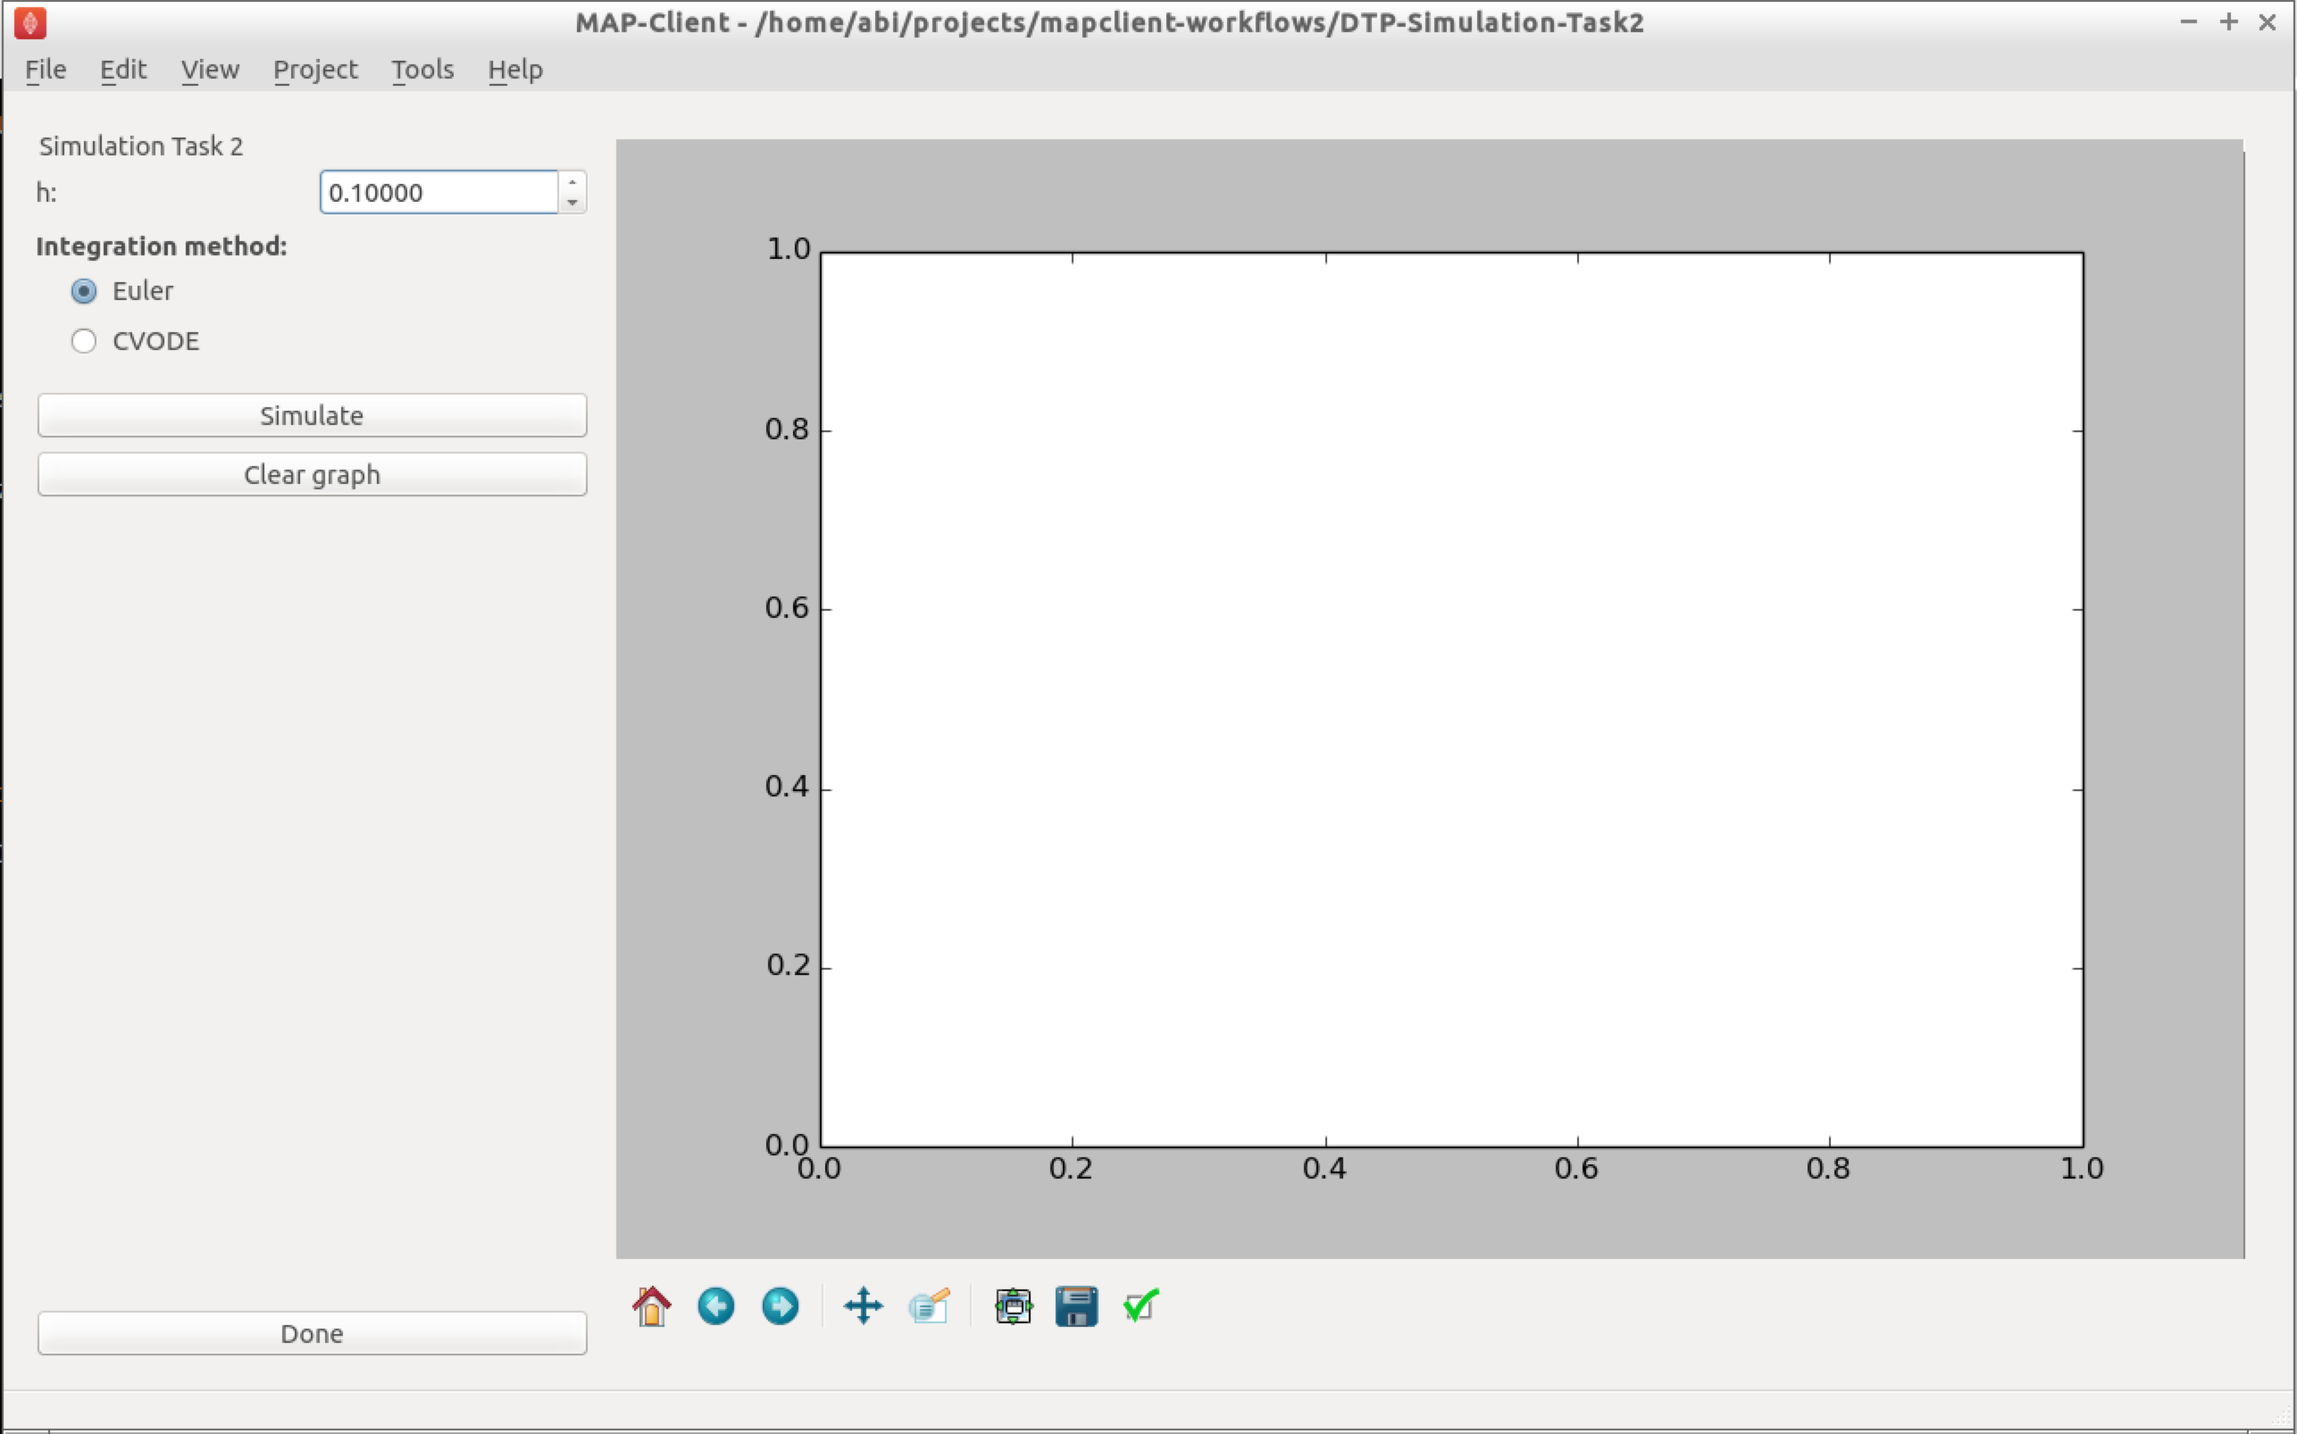
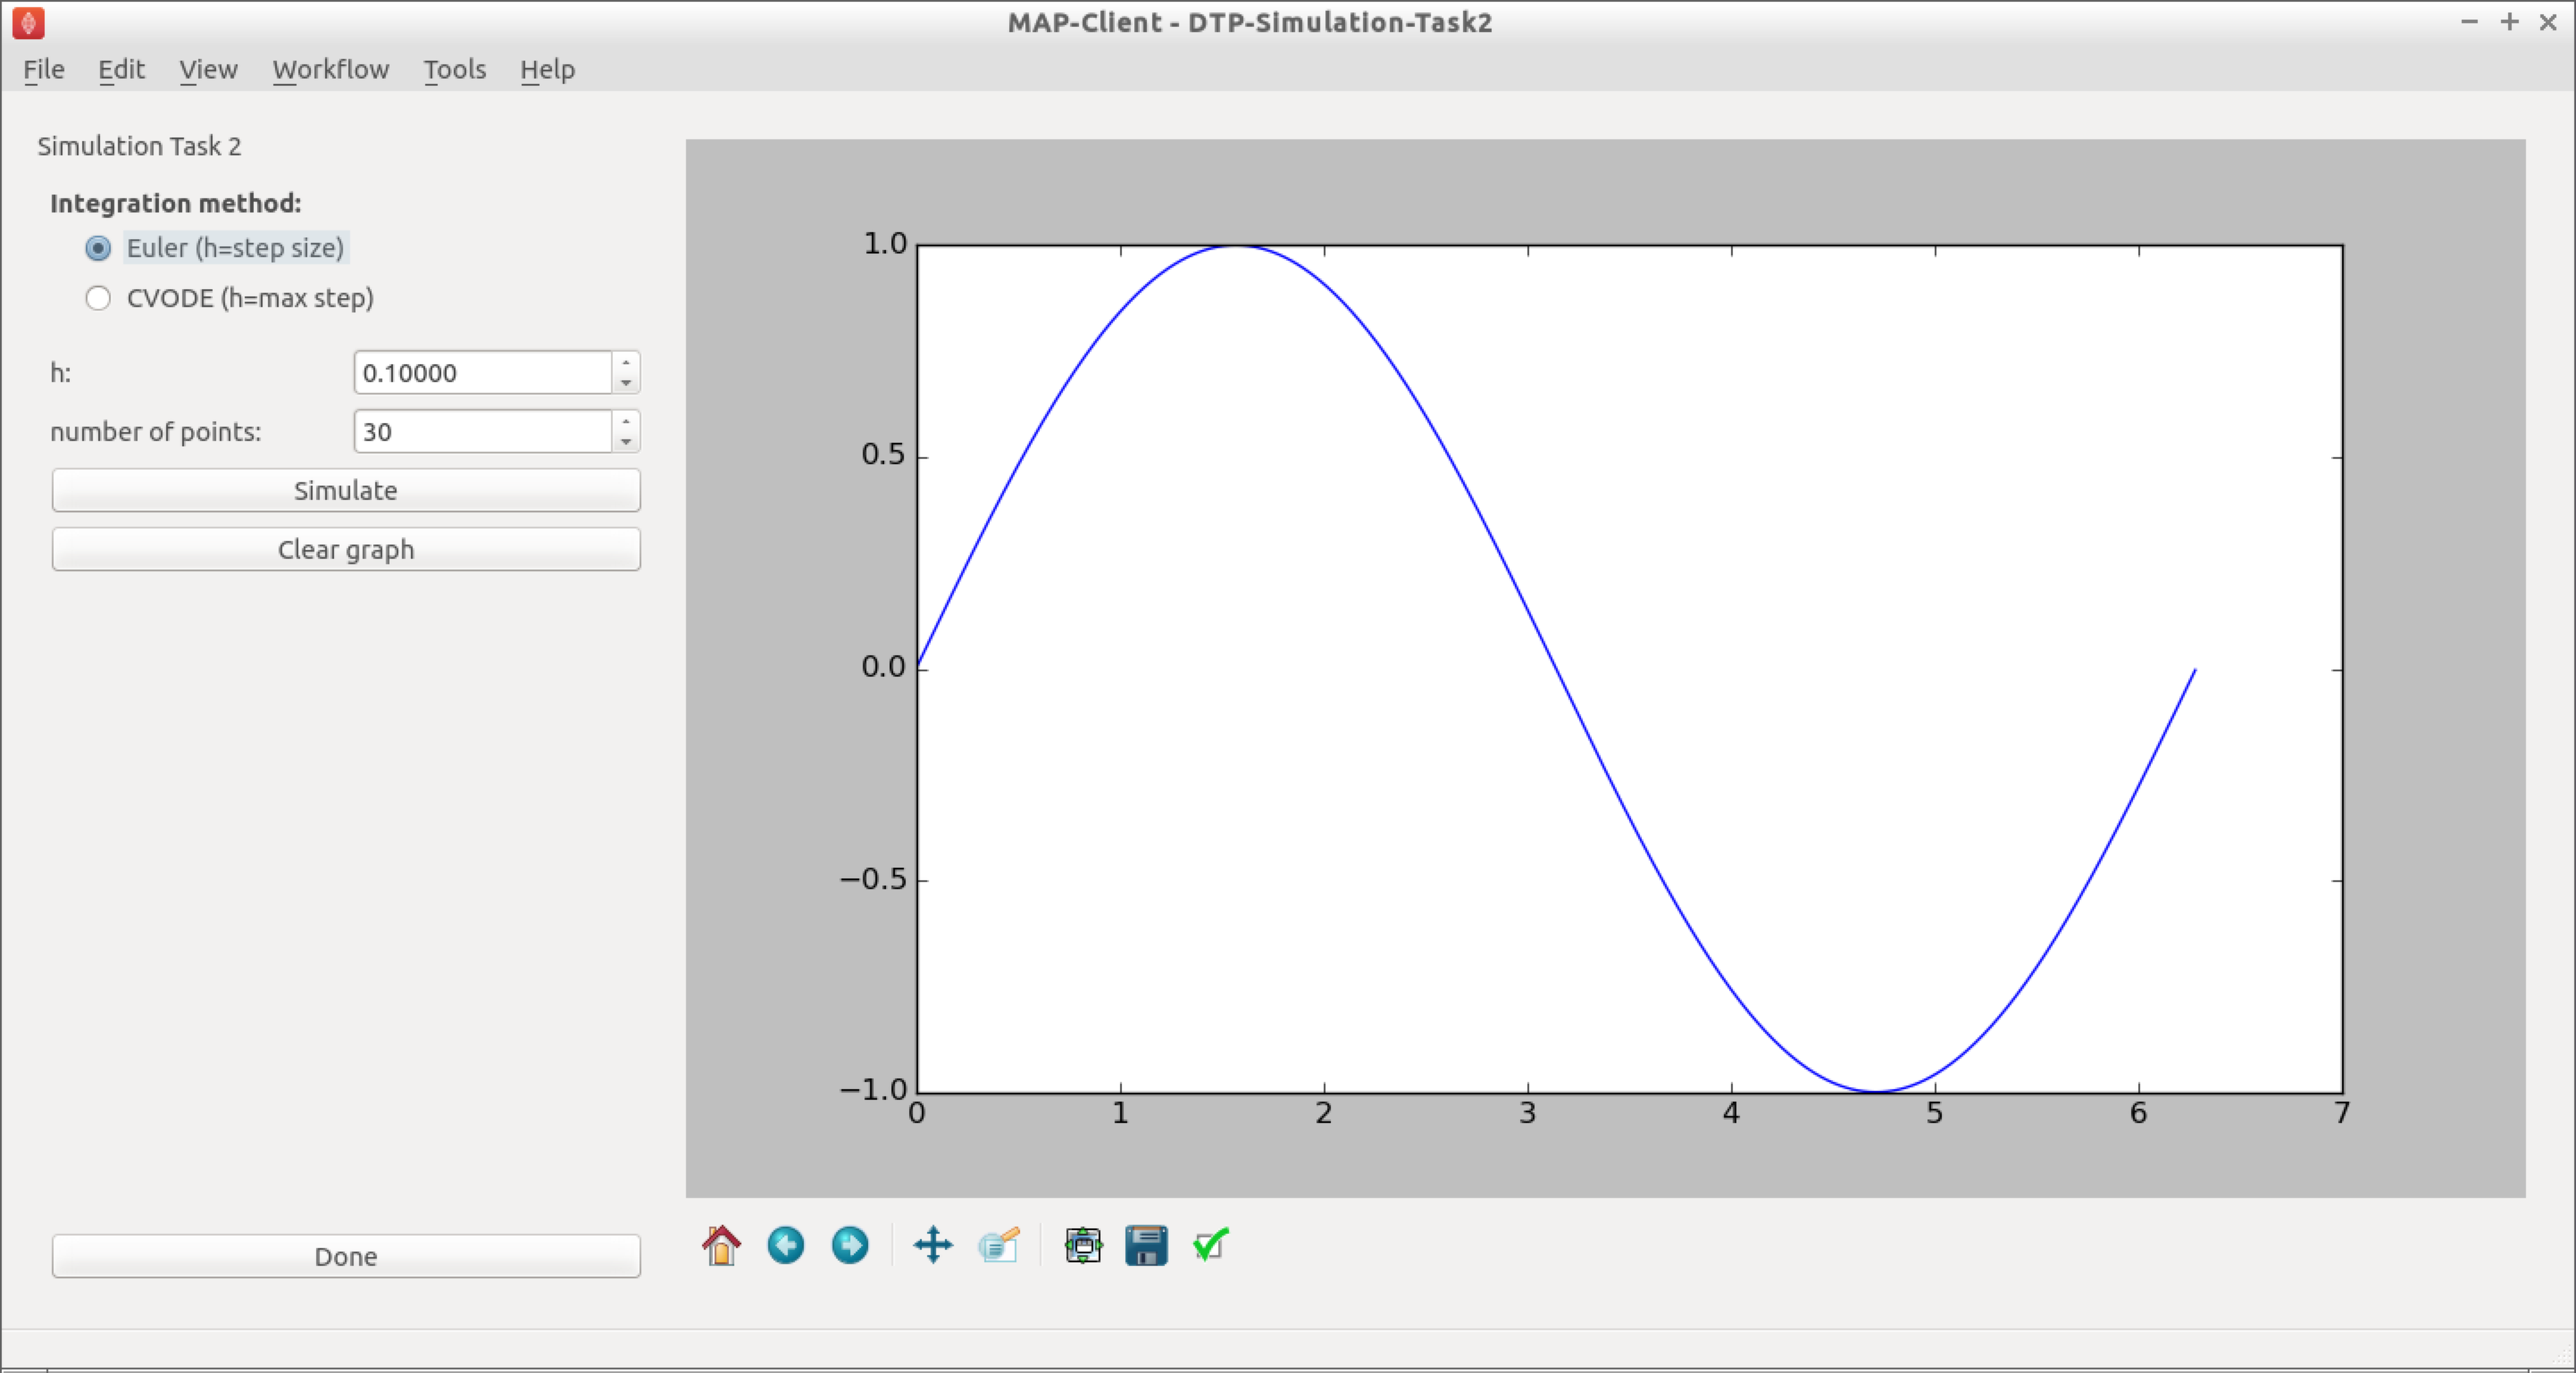
EMBC last minute update

diff --git a/source/odeintegration.rst b/source/odeintegration.rst
@@ -76,7 +76,7 @@ As you can see from :eq:`dtp_cp_sim_sine_model`, if correctly integrated :math:`
    :width: 90%
    :alt: Task 1 GUI.
    
-   The cool Euler integrator interface. In this simple interface, you will see the standard sine function, :math:`sin(t)`, plotted in the right hand panel. The toolbar under the plot is self-explanatory, but provides access to some nifty features. At the top of the left hand panel you will see the control to set the Euler step size for this model, :math:`h`. The :guilabel:`Simulate` button will execute the Euler integration of the model :eq:`dtp_cp_sim_sine_model` and plot the result on the plot to the right. This can be repeated with various values of :math:`h`. The :guilabel:`Clear graph` button will, surprisingly, clear the current simulation results from the plot panel. The :guilabel:`Done` button will drop you back to the work-flow diagram, where you can get back to the plot by executing the work-flow once more.
+   The cool Euler integrator interface. In this simple interface, you will see the standard sine function, :math:`sin(t)`, plotted in the right hand panel. The toolbar under the plot is self-explanatory, but provides access to some nifty features. At the top of the left hand panel you will see the control to set the Euler step size for this model, :math:`h` and also the number of points to be obtained. The :guilabel:`Simulate` button will execute the Euler integration of the model :eq:`dtp_cp_sim_sine_model` and plot the result on the plot to the right. This can be repeated with various values of :math:`h`. The :guilabel:`Clear graph` button will, surprisingly, clear the current simulation results from the plot panel. The :guilabel:`Done` button will drop you back to the work-flow diagram, where you can get back to the plot by executing the work-flow once more.
    
 4. As described in :numref:`fig_dtp_cp_sim_euler2`, multiple simulations can be performed with varying values for the step size, :math:`h`. Shown in :numref:`fig_dtp_cp_sim_euler3` you can see that as :math:`h` reduces in size, the approximation of the model :eq:`dtp_cp_sim_sine_model` by integration using the Euler method gets more accurate.
 
@@ -89,6 +89,8 @@ As you can see from :eq:`dtp_cp_sim_sine_model`, if correctly integrated :math:`
    :alt: Task 1 results.
    
    Simulation results demonstrating the effect of step size, :math:`h`, on the accuracy of Euler's method in approximating the solution of :eq:`dtp_cp_sim_sine_model`.
+   
+5. Now have a play with combining different values for the step size and the number of points to be obtained.
 
 .. _dtp_cp_sim_ode_cvode:
 
@@ -102,7 +104,7 @@ From the `Sundials <https://computation.llnl.gov/casc/sundials/main.html>`_ suit
 Task 2 - fixed vs adaptive stepping
 +++++++++++++++++++++++++++++++++++
 
-In this task we examine the limitations and the computational costs associated with a fixed step method (Euler) compared to an adaptive step method (CVODE). We use the recent `biophysically based mathematical model of unitary potential activity in interstitial cells of Cajal <https://models.physiomeproject.org/exposure/988bef2de04476a20b1e76e9e933b86b>`_. The interstitial cells of Cajal (ICC) are the pacemaker cells of the gastrointestinal tract and provide the electrical stimulus required to activate the contraction of smooth muscle cells nescessary for the correct behaviour of the GI tract. This particular model was developed by scientists at the Auckland Bioengineering Institute to investigate a specific hypothesis regarding the biophysical mechanism underlying the pacemaker function of ICCs.
+In this task we examine the limitations and the computational costs associated with a fixed step method (Euler) compared to an adaptive step method (CVODE). Here we continue with our sine integration demonstration model to help highlight the differences.
 
 1. Run MAP Client, choose :menuselection:`File --> Open` and select :file:`{HOME}/projects/mapclient-workflows/DTP-Simulation-Task2`.
 2. This simple workflow should look similar to that used in task 1 above (:numref:`fig_dtp_cp_sim_euler1`). The workflow is pre-configured so there is no configuration required.
@@ -118,19 +120,19 @@ In this task we examine the limitations and the computational costs associated w
    
    The user interface in this task is similar to that described in :numref:`fig_dtp_cp_sim_euler2`, and the common elements behave the same. In addition there is the ability to choose either the Euler or CVODE numerical integration methods. As the CVODE method is an adaptive stepping method, the value of :math:`h` is used to limit the maximum step size that the algorithm will use, with :math:`h=0` indicating the maximum step size is unlimited.
    
-4. You can now attempt to find the value of :math:`h` that will enable the Euler integration method to successfully reproduce the result shown in :numref:`fig_dtp_cp_sim_task2_2`. Hint: this particular model has characteristics that make it very difficult to simulate using a fixed method like Euler.
+4. You can now easily see the difference between the two integration methods by directly comparing them, as shown in :numref:`fig_dtp_cp_sim_task2_2`.
 
 .. _fig_dtp_cp_sim_task2_2:
 
-.. figure:: _static/task2_2.png
+.. figure:: _static/task2_2-new.png
    :align: center
    :figwidth: 95%
    :width: 90%
-   :alt: Task 1 results.
+   :alt: Task 2 sample results.
    
-   Simulation results for a successful integration of the ICC model using the Euler integration method. Determining a suitable Euler step size, :math:`h`, to recreate these results is an exercise for the reader.
+   Simulation results showing the comparison between the Euler and CVODE integrators.
 
-5. You can now compare the results obtained using the CVODE integration method with those from your successful Euler simulation. In the plot legend you will see the ``time`` value - this is a rough measure of the length of time taken for the given simulation. Hopefully you will see that the adaptive stepping CVODE method performs better than the Euler method.
+5. Now have a play with step sizes, number of points, and integration methods to explore the features of these two integration methods.
 
 .. _dtp_cp_sim_ode_task3:
 
@@ -138,6 +140,8 @@ Task 3 - error control
 ++++++++++++++++++++++
 
 In addition to providing adaptive stepping, CVODE is also a very configurable solver. Beyond the maximum step size explored above, a further control parameter of that is often of interest are the tolerances used to control the accumulation of error in the numerical approximation of the mathematical model. This tolerance specifies how accurate we require the solution of the integration to be, and the value used can be very specific to the mathematical model being simulated. In task 2 above, we used a tolerance of 1.0e-7. Depending on the behaviour of your mathematical model, you may need to tighten (reduce) or loosen (increase) the tolerance values, depending on the specific application the model is being used for. Here we explore the effect of the tolerance value on the ICC model introduced above.
+
+We use the recent `biophysically based mathematical model of unitary potential activity in interstitial cells of Cajal <https://models.physiomeproject.org/exposure/988bef2de04476a20b1e76e9e933b86b>`_. The interstitial cells of Cajal (ICC) are the pacemaker cells of the gastrointestinal tract and provide the electrical stimulus required to activate the contraction of smooth muscle cells nescessary for the correct behaviour of the GI tract. This particular model was developed by scientists at the Auckland Bioengineering Institute to investigate a specific hypothesis regarding the biophysical mechanism underlying the pacemaker function of ICCs.
 
 1. Run MAP Client, choose :menuselection:`File --> Open` and select :file:`{HOME}/projects/mapclient-workflows/DTP-Simulation-Task3`.
 2. This simple workflow should look similar to that used in task 1 above (:numref:`fig_dtp_cp_sim_euler1`). The workflow is pre-configured so there is no configuration required.
@@ -164,3 +168,4 @@ In addition to providing adaptive stepping, CVODE is also a very configurable so
    :alt: Task 1 results.
    
    Simulation results for a selection of simulations of the ICC model using various configurations of the CVODE integratior.
+   

diff --git a/source/multiscale.rst b/source/multiscale.rst
@@ -3,4 +3,35 @@
 Multiscale simulation
 =====================
 
-Switch to Powerpoint slides :)
+.. _dtp_cp_sim_ode_task4:
+
+Task 4 - electrophysiological simulation
+++++++++++++++++++++++++++++++++++++++++
+
+In this example we explore the effect of spatial resolution of the numerical method in the simulation of a monodomain electrophysiology simulation.
+
+1. Run MAP Client, choose :menuselection:`File --> Open` and select :file:`{HOME}/projects/mapclient-workflows/DTP-Simulation-Task4`.
+2. This simple workflow should look similar to that used in task 1 above (:numref:`fig_dtp_cp_sim_euler1`). The workflow is pre-configured so there is no configuration required.
+3. Click the :guilabel:`Execute` button and you should get a widget displayed as per :numref:`fig_dtp_cp_sim_task4_1`.
+
+.. _fig_dtp_cp_sim_task4_1:
+
+.. figure:: _static/task4_1.png
+   :align: center
+   :figwidth: 95%
+   :width: 90%
+   :alt: Task 4 GUI.
+   
+   The user interface in this task initially shows a "converged" solution on the right. The user is able to set the discretisation of the finite element mesh using the widgets at the bottom.
+   
+4. You can now investigate the effect of changing the spatial resolution. Example results are shown in :numref:`fig_dtp_cp_sim_task4_2`.
+
+.. _fig_dtp_cp_sim_task4_2:
+
+.. figure:: _static/task4_2.png
+   :align: center
+   :figwidth: 95%
+   :width: 90%
+   :alt: Task 4 results.
+   
+   Simulation results for a 2x1 mesh.
